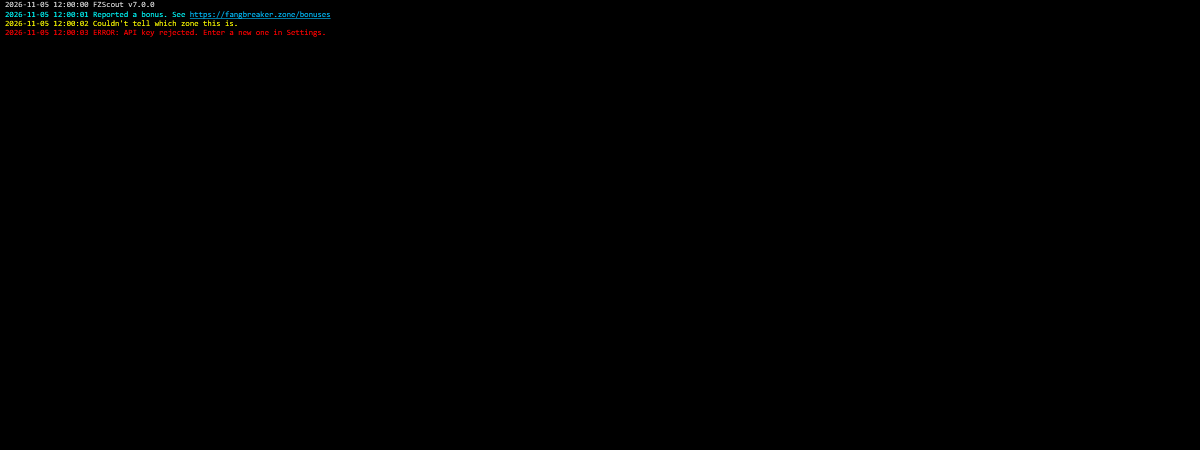
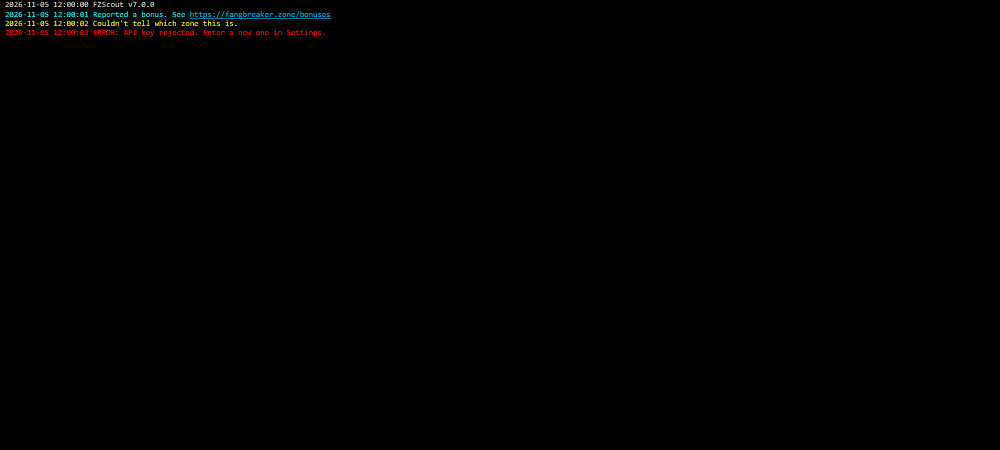
Pin the highlight color and window width in screenshot tests, so CI renders them like a dev machine

Changed region(s): [[0.0, 0.0, 0.341, 0.0933]]

diff --git a/FZScout.Tests/Xaml/MachineIndependentRendering.cs b/FZScout.Tests/Xaml/MachineIndependentRendering.cs
@@ -1,0 +1,24 @@
+using System.Windows;
+using System.Windows.Media;
+
+namespace FZScout.Tests.Xaml;
+
+/// <summary>
+/// Screenshots of the same window differ between machines unless these are pinned, so CI's don't match a dev machine's.
+/// </summary>
+static class MachineIndependentRendering
+{
+    /// <summary>The highlight color on a typical Windows 11 dev machine; CI's Windows Server is a shade different.</summary>
+    static Color WindowsHighlightColor { get; } = Color.FromRgb(0, 120, 215);
+
+    /// <summary>Narrow enough that WPF doesn't shrink the window to fit a small screen, like CI's 1024 pixels.</summary>
+    public const double WidthThatFitsOnAnyScreen = 1000;
+
+    public static T WithPinnedSystemHighlightColor<T>(this T element)
+        where T : FrameworkElement
+    {
+        element.Resources[SystemColors.HighlightColorKey] = WindowsHighlightColor;
+        element.Resources[SystemColors.HighlightBrushKey] = new SolidColorBrush(WindowsHighlightColor);
+        return element;
+    }
+}

diff --git a/FZScout.Tests/Xaml/MainWindowTests.cs b/FZScout.Tests/Xaml/MainWindowTests.cs
@@ -12,6 +12,6 @@ public class MainWindowTests
         viewModel.LogLines.Add(new LogLine("2026-11-05 12:00:01 Reported a bonus. See https://fangbreaker.zone/bonuses", LogLineSeverity.Success));
         viewModel.LogLines.Add(new LogLine("2026-11-05 12:00:02 Couldn't tell which zone this is.", LogLineSeverity.Warning));
         viewModel.LogLines.Add(new LogLine("2026-11-05 12:00:03 ERROR: API key rejected. Enter a new one in Settings.", LogLineSeverity.Error));
-        return Verify(new MainWindow(viewModel));
+        return Verify(new MainWindow(viewModel) { Width = MachineIndependentRendering.WidthThatFitsOnAnyScreen }.WithPinnedSystemHighlightColor());
     }
 }

diff --git a/FZScout.Tests/Xaml/SettingsWindowTests.cs b/FZScout.Tests/Xaml/SettingsWindowTests.cs
@@ -12,7 +12,7 @@ public class SettingsWindowTests
             ApiKeyBeingEdited = "fz_live_not_a_real_key",
             ApiKeyVerificationStatus = ApiKeyVerificationStatus.VerifiedAndSaved,
         };
-        return Verify(new SettingsWindow(viewModel));
+        return Verify(new SettingsWindow(viewModel).WithPinnedSystemHighlightColor());
     }
 
     [WpfFact]
@@ -22,6 +22,6 @@ public class SettingsWindowTests
         {
             SavedApiKeyAbbreviation = "fz_live_qa81...cUMfgC",
         };
-        return Verify(new SettingsWindow(viewModel));
+        return Verify(new SettingsWindow(viewModel).WithPinnedSystemHighlightColor());
     }
 }

diff --git a/FZScout.Tests/Xaml/AboutWindowTests.cs b/FZScout.Tests/Xaml/AboutWindowTests.cs
@@ -14,6 +14,6 @@ public class AboutWindowTests
             LatestUpdateCheckResult = new DownloadedNewerRelease(downloadedVersion),
             DownloadedVersionToInstallAfterExit = downloadedVersion,
         };
-        return Verify(new AboutWindow(viewModel));
+        return Verify(new AboutWindow(viewModel).WithPinnedSystemHighlightColor());
     }
 }
